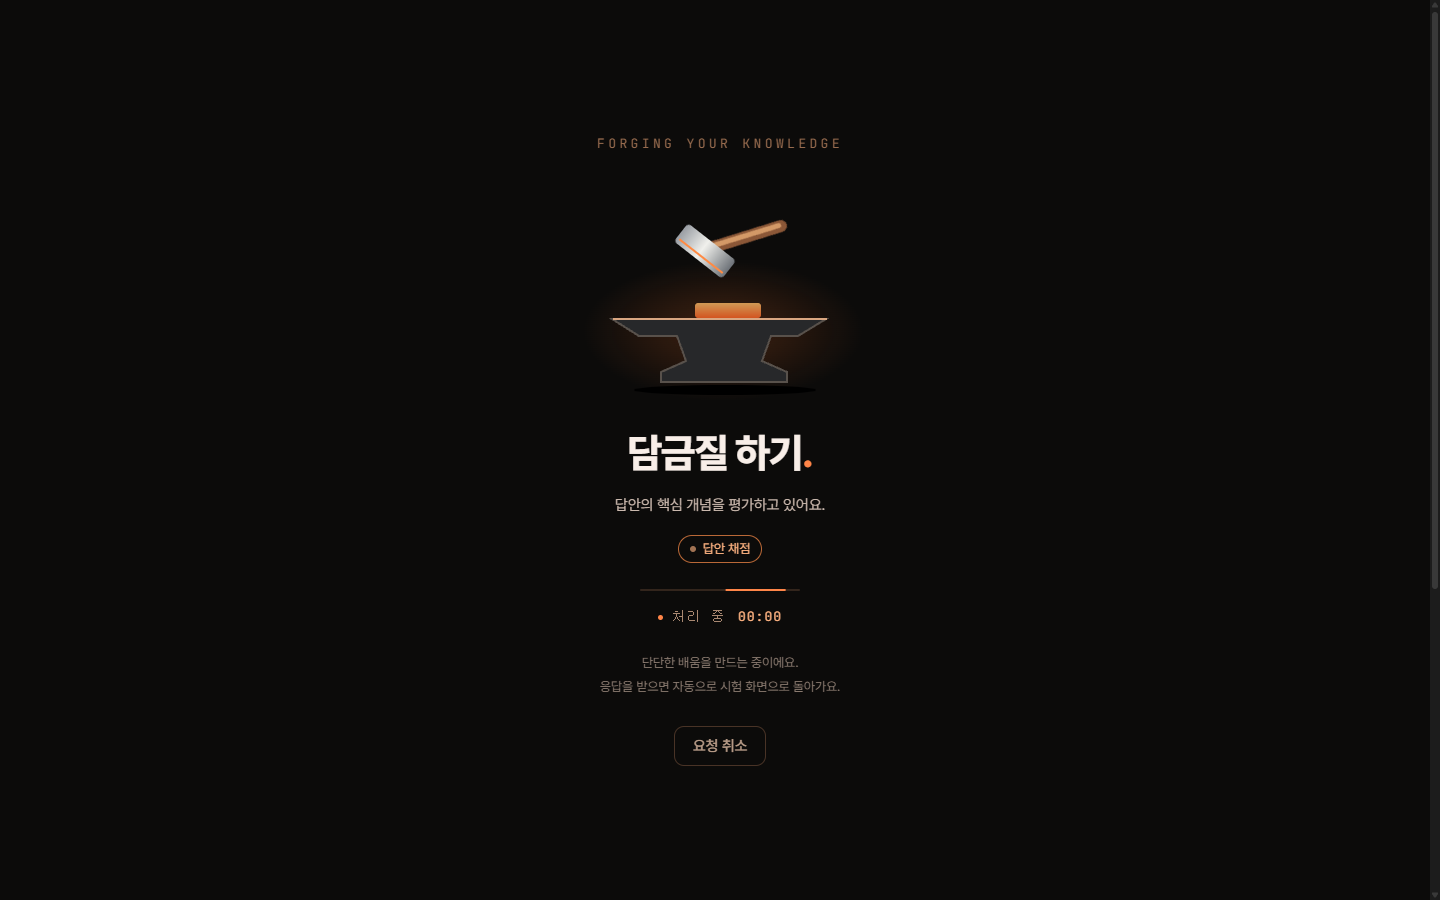
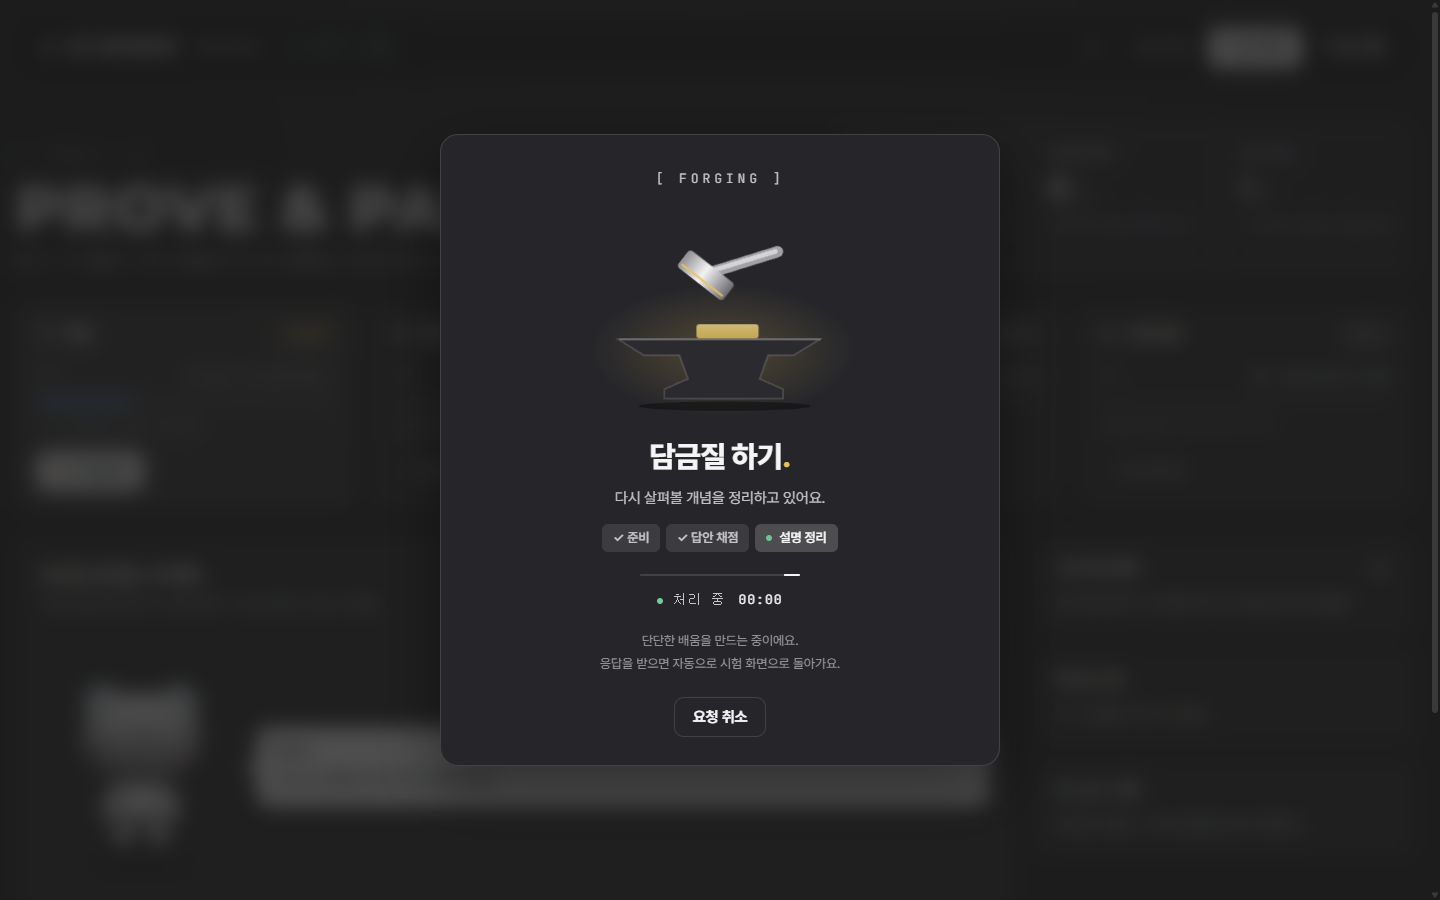
design(exam): restyle the forging loading screen as a dashboard-style card
담금질 로딩 화면을 검은 전체 화면 대신 학습 기록과 같은 체계의 카드로 바꿨습니다.

- `frontend/login_ui/exam.html`·`exam.css`: `dialog#forge`를 흐린 페이지(backdrop blur) 위 가운데 카드(`--folder` 바탕, 1px `--line`, 18px 라운드)로 바꾸고, 눈썹 `[ FORGING ]`·제목·단계 칩(`.chip` 모양)·모노 타이머·`.btn.secondary` 버튼으로 맞췄습니다. 망치·모루·달군 쇠 SVG와 strike/spark/ember/travel 애니메이션은 그대로 두고 색만 CSS 변수(회색 쇠, `--mid` 계열 호박색 달군 쇠, 테마별 값)로 칠합니다.
- 닫힌 dialog는 `.forge-screen:not([open]){display:none}`으로 숨기고(display:grid 때문에 필요), `[hidden]` 버튼·`prefers-reduced-motion`·`scripts/check-exam-ui.mjs`의 기대(.hammer 동작, '요청 취소' 버튼, #forge-phase 문구)는 유지했습니다. 헤드리스 크롬으로 다크·라이트 × 데스크톱·모바일(390px, 가로 넘침 없음, 카드 587px)과 닫힘(display none)·열림 상태를 확인했습니다.
- `docs/exam-page.md`·`WORKLOG.md`·스크린샷(`docs/screenshots/exam/loading-*.png`)을 새 화면에 맞췄습니다.

diff --git a/frontend/login_ui/exam.css b/frontend/login_ui/exam.css
@@ -1,5 +1,5 @@
 /* 평가 시험 페이지(/exam). 학습 기록(Trainee Dashboard.dc.html)과 같은 토큰·헤더·제목·카드 체계를 쓴다.
-   오렌지 강조는 쓰지 않고, 망치 로딩 화면(담금질 하기)의 달군 쇠·불꽃 오렌지만 남긴다. */
+   오렌지 강조는 쓰지 않는다. 망치 로딩 화면(담금질 하기)도 같은 체계의 카드이고, 달군 쇠·불꽃만 --mid 계열 호박색이다. */
 html, body { margin: 0; min-height: 100%; }
 body {
   --font-ko: "Pretendard", -apple-system, BlinkMacSystemFont, "Apple SD Gothic Neo", "Malgun Gothic", sans-serif;
@@ -205,35 +205,48 @@ h1 { font-family: var(--font-en); font-weight: 800; font-size: clamp(36px, 5.4vw
 .item strong { font-size: 15px; font-weight: 600; }
 .item .btn { align-self: flex-start; margin-top: 4px; }
 
-/* 망치 로딩 화면: 검은 배경 · 달군 쇠 · 불꽃 오렌지는 그대로. 글꼴·간격만 체계에 맞춘다 */
-.forge-screen { border: none; margin: 0; padding: 0; max-width: none; max-height: none; width: 100vw; height: 100dvh; color: #f8eee8; background: #0c0b0a; overflow: auto; font-family: var(--font-ko); letter-spacing: -0.01em; }
-.forge-screen::backdrop { background: #0c0b0a; }
-.forge-content { min-height: 100%; display: flex; flex-direction: column; align-items: center; justify-content: center; text-align: center; padding: 36px 20px; }
-.forge-eyebrow { font-family: var(--mono); font-size: 13px; letter-spacing: 0.26em; color: #976b4e; }
-.forge-art { width: min(360px, 85vw); height: 240px; margin: 16px 0 0; }
+/* 담금질 로딩 화면: 학습 기록 체계의 카드(둥근 18px · 선 1px · --folder 바탕)를 흐린 페이지 위 가운데에 띄운다.
+   망치·모루·달군 쇠 그림과 동작은 그대로 두고 색만 토큰으로 맞춘다(쇠는 회색, 달군 쇠·불꽃은 --mid 계열 호박색). */
+.forge-screen { --forge-heat: #e8c25a; --forge-heat-hi: #f7dd8c; --forge-anvil: #2b2b2f; --forge-steel-a: #8e8e93; --forge-steel-b: #f2f2f2; --forge-steel-c: #6b6b70; --forge-handle: #a1a1a6; --forge-handle-hi: #d4d4d8; --forge-glow: .22;
+  border: none; margin: 0; padding: 20px; max-width: none; max-height: none; width: 100vw; height: 100dvh; background: transparent; color: var(--text); overflow: auto; font-family: var(--font-ko); letter-spacing: -0.01em; display: grid; place-items: center; }
+.forge-screen:not([open]) { display: none; }
+.forge-screen::backdrop { background: rgba(28, 28, 28, .78); backdrop-filter: blur(10px); -webkit-backdrop-filter: blur(10px); }
+body[data-theme="light"] .forge-screen { --forge-heat: #e0a62f; --forge-heat-hi: #f3cf6d; --forge-anvil: #3a3a40; --forge-steel-a: #9a9aa0; --forge-steel-b: #ffffff; --forge-steel-c: #6b6b71; --forge-handle: #8c8c92; --forge-handle-hi: #c9c9ce; --forge-glow: .14; }
+body[data-theme="light"] .forge-screen::backdrop { background: rgba(244, 244, 245, .8); }
+.forge-content { width: min(560px, 100%); display: flex; flex-direction: column; align-items: center; text-align: center; padding: 34px 28px 28px; border-radius: 18px; background: var(--folder); border: 1px solid var(--line); box-shadow: 0 24px 60px var(--shadow); }
+.forge-eyebrow { font-family: var(--mono); font-size: 13px; letter-spacing: 0.3em; color: var(--muted); }
+.forge-art { width: min(340px, 100%); height: 226px; margin: 10px 0 0; }
+/* 그림 색: 그라데이션 stop과 면·선을 CSS 변수로 칠해 테마를 따라간다 */
+.forge-art .anvil { fill: var(--forge-anvil); stroke: var(--line); }
+.forge-art .anvil-edge { stroke: var(--forge-steel-c); }
+.forge-art .steel-a { stop-color: var(--forge-steel-a); } .forge-art .steel-b { stop-color: var(--forge-steel-b); } .forge-art .steel-c { stop-color: var(--forge-steel-c); }
+.forge-art .heat-a { stop-color: var(--forge-heat); } .forge-art .heat-b { stop-color: var(--forge-heat-hi); }
+.forge-art .glow-a { stop-color: var(--forge-heat); stop-opacity: var(--forge-glow); } .forge-art .glow-b { stop-color: var(--forge-heat); stop-opacity: 0; }
+.forge-art .handle { stroke: var(--forge-handle); } .forge-art .handle-hi { stroke: var(--forge-handle-hi); }
+.forge-art .head-edge { stroke: var(--forge-heat); }
+.forge-art .sparks { stroke: var(--forge-heat-hi); }
+.forge-art .ground { fill: var(--shadow); }
 .hammer { transform-origin: 241px 56px; animation: strike 1.4s cubic-bezier(.5, 0, .3, 1) infinite; }
 .sparks { opacity: 0; transform-origin: 190px 139px; animation: spark 1.4s infinite; }
 .billet { animation: ember 1.4s infinite; }
-.forge-content h2 { font-size: 40px; font-weight: 800; letter-spacing: -0.03em; margin: 12px 0 10px; }
-.forge-content .orange-dot { color: #ff8548; }
-.forge-content #forge-phase { font-size: 15px; color: #cbb9ae; max-width: 420px; }
-/* 지나온 단계 칸: 끝난 칸은 체크, 지금 칸은 깜빡이는 점. 서버 작업의 phase가 바뀔 때마다 한 칸씩 늘어난다 */
-.forge-steps { list-style: none; margin: 18px 0 0; padding: 0; display: flex; flex-wrap: wrap; justify-content: center; gap: 8px; max-width: 520px; }
+.forge-content h2 { font-size: 30px; font-weight: 800; letter-spacing: -0.02em; margin: 8px 0 8px; }
+.forge-content .orange-dot { color: var(--forge-heat); }
+.forge-content #forge-phase { font-size: 15px; color: var(--muted); max-width: 420px; }
+/* 지나온 단계 칸: 상태 칩 모양. 끝난 칸은 체크, 지금 칸은 깜빡이는 점. 서버 작업의 phase가 바뀔 때마다 한 칸씩 늘어난다 */
+.forge-steps { list-style: none; margin: 14px 0 0; padding: 0; display: flex; flex-wrap: wrap; justify-content: center; gap: 6px; max-width: 480px; }
 .forge-steps:empty { display: none; }
-.forge-steps li { display: inline-flex; align-items: center; gap: 7px; height: 28px; padding: 0 11px; border-radius: 999px; border: 1px solid #493326; color: #cbb9ae; font-size: 13px; white-space: nowrap; }
-.forge-steps li.now { color: #ffb381; border-color: #ba6837; }
-.forge-steps li i { width: 6px; height: 6px; border-radius: 50%; background: currentColor; }
+.forge-steps li { display: inline-flex; align-items: center; gap: 7px; height: 28px; padding: 0 11px; border-radius: 6px; background: var(--panel2); color: var(--muted); font-size: 13px; font-weight: 600; white-space: nowrap; }
+.forge-steps li.now { background: var(--chip-on); color: var(--text); }
+.forge-steps li i { width: 6px; height: 6px; border-radius: 50%; background: var(--ok); }
 .forge-steps li.now i { animation: pulse 1s ease-in-out infinite; }
 @keyframes pulse { 0%, 100% { opacity: .3; } 50% { opacity: 1; } }
-.forge-line { width: 160px; height: 2px; background: #33251c; margin: 26px 0 16px; overflow: hidden; border-radius: 3px; }
-.forge-line span { display: block; width: 60px; height: 2px; background: #ff8548; animation: travel 1.8s ease-in-out infinite; }
-.forge-time { font-family: var(--mono); font-size: 13px; letter-spacing: 0.08em; color: #a98871; display: flex; align-items: center; gap: 9px; }
-.forge-time time { color: #ffb381; margin-left: 3px; }
-.live-dot { height: 5px; width: 5px; background: #ff8548; border-radius: 50%; }
-.forge-help { margin-top: 24px; font-size: 13px; color: #8a7a6f; line-height: 1.8; }
-.forge-actions { display: flex; gap: 10px; margin-top: 28px; }
-.forge-cancel { height: 40px; padding: 0 18px; border-radius: 10px; border: 1px solid #493326; background: transparent; color: #b59985; font-size: 15px; font-weight: 600; }
-.forge-cancel:hover { color: #ffb381; border-color: #ba6837; }
+.forge-line { width: 160px; height: 2px; background: var(--line); margin: 22px 0 14px; overflow: hidden; border-radius: 3px; }
+.forge-line span { display: block; width: 60px; height: 2px; background: var(--text); animation: travel 1.8s ease-in-out infinite; }
+.forge-time { font-family: var(--mono); font-size: 13px; letter-spacing: 0.08em; color: var(--muted); display: flex; align-items: center; gap: 9px; }
+.forge-time time { color: var(--text); margin-left: 3px; }
+.live-dot { height: 6px; width: 6px; background: var(--ok); border-radius: 50%; }
+.forge-help { margin-top: 18px; font-size: 13px; color: var(--dim); line-height: 1.8; }
+.forge-actions { display: flex; gap: 10px; margin-top: 22px; }
 @keyframes strike { 0%, 19% { transform: rotate(38deg); } 40%, 44% { transform: rotate(-3deg); } 60%, 100% { transform: rotate(38deg); } }
 @keyframes spark { 0%, 35%, 59%, 100% { opacity: 0; transform: scale(.3); } 40% { opacity: 1; transform: scale(.7); } 56% { opacity: 0; transform: scale(1.2); } }
 @keyframes ember { 0%, 32%, 70%, 100% { opacity: .78; } 40%, 48% { opacity: 1; } }
@@ -275,7 +288,10 @@ h1 { font-family: var(--font-en); font-weight: 800; font-size: clamp(36px, 5.4vw
   .steps li { padding: 12px; }
   .concept-result { grid-template-columns: minmax(64px, 110px) minmax(0, 1fr) auto; gap: 10px; }
   .form-bottom { flex-wrap: wrap; }
-  .forge-content h2 { font-size: 34px; }
+  .forge-screen { padding: 16px; }
+  .forge-content { padding: 26px 18px 22px; }
+  .forge-art { height: 200px; }
+  .forge-content h2 { font-size: 26px; }
 }
 @media (prefers-reduced-motion: reduce) {
   *, *::before, *::after { scroll-behavior: auto !important; animation: none !important; transition: none !important; }

diff --git a/frontend/login_ui/exam.html b/frontend/login_ui/exam.html
@@ -81,19 +81,19 @@
       </aside>
     </div>
   </main>
-  <!-- 망치 로딩 화면(담금질 하기): 검은 배경과 달군 쇠·불꽃 오렌지는 그대로 두고 글꼴·간격만 체계에 맞춘다 -->
+  <!-- 담금질 로딩 화면: 흐린 페이지 위에 학습 기록 체계의 카드. 망치·모루·달군 쇠 그림과 동작은 그대로, 색은 exam.css의 변수(테마별)로 칠한다 -->
   <dialog id="forge" class="forge-screen" aria-labelledby="forge-title" aria-describedby="forge-phase">
     <div class="forge-content">
-      <span class="forge-eyebrow">FORGING YOUR KNOWLEDGE</span>
+      <span class="forge-eyebrow">[ FORGING ]</span>
       <svg class="forge-art" viewBox="0 0 360 240" aria-hidden="true">
-        <defs><linearGradient id="steel" x1="0" x2="1"><stop stop-color="#999da3"/><stop offset=".45" stop-color="#f0f0ec"/><stop offset="1" stop-color="#6d7278"/></linearGradient><linearGradient id="heat" x1="0" y1="1" x2="0" y2="0"><stop stop-color="#ff6425"/><stop offset="1" stop-color="#ffbe6a"/></linearGradient><radialGradient id="glow"><stop stop-color="#ff7429" stop-opacity=".22"/><stop offset="1" stop-color="#ff7429" stop-opacity="0"/></radialGradient></defs>
+        <defs><linearGradient id="steel" x1="0" x2="1"><stop class="steel-a"/><stop class="steel-b" offset=".45"/><stop class="steel-c" offset="1"/></linearGradient><linearGradient id="heat" x1="0" y1="1" x2="0" y2="0"><stop class="heat-a"/><stop class="heat-b" offset="1"/></linearGradient><radialGradient id="glow"><stop class="glow-a"/><stop class="glow-b" offset="1"/></radialGradient></defs>
         <ellipse cx="183" cy="161" rx="140" ry="70" fill="url(#glow)"/>
-        <path class="anvil" d="M72 149h214l-28 17h-27l-9 25 25 11v10H121v-10l25-11-9-25H99z" fill="#27282a" stroke="#58514b" stroke-width="2"/>
-        <path d="M73 149h214" stroke="#d9a681" stroke-width="2"/>
+        <path class="anvil" d="M72 149h214l-28 17h-27l-9 25 25 11v10H121v-10l25-11-9-25H99z" stroke-width="2"/>
+        <path class="anvil-edge" d="M73 149h214" stroke-width="2"/>
         <rect class="billet" x="155" y="133" width="66" height="15" rx="3" fill="url(#heat)"/>
-        <g class="hammer"><path d="M241 56l-43 62" stroke="#8b5737" stroke-width="12" stroke-linecap="round"/><path d="M239 57l-42 60" stroke="#d39967" stroke-width="5" stroke-linecap="round"/><rect x="166" y="111" width="61" height="23" rx="4" fill="url(#steel)"/><path d="M169 129h55" stroke="#ff8a43" stroke-width="2"/></g>
-        <g class="sparks" stroke="#ff9a46" stroke-width="2.4" stroke-linecap="round"><path d="M181 132l-31-35"/><path d="M184 130l-4-41"/><path d="M200 132l30-30"/><path d="M211 139l41-9"/><path d="M171 140l-42-9"/><path d="M208 142l32 15"/></g>
-        <ellipse cx="185" cy="220" rx="91" ry="5" fill="#000"/>
+        <g class="hammer"><path class="handle" d="M241 56l-43 62" stroke-width="12" stroke-linecap="round"/><path class="handle-hi" d="M239 57l-42 60" stroke-width="5" stroke-linecap="round"/><rect x="166" y="111" width="61" height="23" rx="4" fill="url(#steel)"/><path class="head-edge" d="M169 129h55" stroke-width="2"/></g>
+        <g class="sparks" stroke-width="2.4" stroke-linecap="round"><path d="M181 132l-31-35"/><path d="M184 130l-4-41"/><path d="M200 132l30-30"/><path d="M211 139l41-9"/><path d="M171 140l-42-9"/><path d="M208 142l32 15"/></g>
+        <ellipse class="ground" cx="185" cy="220" rx="91" ry="5"/>
       </svg>
       <h2 id="forge-title">담금질 하기<span class="orange-dot">.</span></h2>
       <p id="forge-phase" role="status" aria-live="polite">요청을 준비하고 있어요.</p>
@@ -102,7 +102,7 @@
       <div class="forge-line" aria-hidden="true"><span></span></div>
       <p class="forge-time"><span class="live-dot" aria-hidden="true"></span>처리 중 <time id="elapsed">00:00</time></p>
       <p class="forge-help">단단한 배움을 만드는 중이에요.<br>응답을 받으면 자동으로 시험 화면으로 돌아가요.</p>
-      <div class="forge-actions"><button id="cancel-job" class="forge-cancel">요청 취소</button><button id="reconnect" class="forge-cancel" hidden>연결 다시 확인</button></div>
+      <div class="forge-actions"><button id="cancel-job" class="btn secondary">요청 취소</button><button id="reconnect" class="btn secondary" hidden>연결 다시 확인</button></div>
     </div>
   </dialog>
 </body>

diff --git a/docs/exam-page.md b/docs/exam-page.md
@@ -6,9 +6,9 @@
 
 홈 로그인 → 3D 학습/학습 기록의 **평가 시험** 링크 → 공정 선택 → 응시 준비 → 문제 → 답안 제출 → 필요하면 설명과 추가 확인 → 결과.
 
-- 디자인은 학습 기록(`frontend/login_ui/Trainee Dashboard.dc.html`)과 같은 체계다: 같은 색 토큰(다크/라이트)·글꼴, 둥근 헤더(로고 · ST-ROOKIE · TRAINEE · '● 평가 시험' 알약 · 테마 · 로그아웃 · [학습 화면] · [학습 기록]), `[ TRAINEE ]` 눈썹 + 영어 제목 **PROVE & PASS.**, 통계 카드 묶음(통과 기준 80% · 통과한 공정 · 응시 가능), 학습 기록과 같은 공정 카드(번호 · 이름 · 상태 칩 · 이해도 · 막대), `.card` 패널. 오렌지 강조는 망치 로딩 화면에만 남겼다. 화면 제목과 응시 문구는 **평가 시험**으로 통일했다. 기존 API의 `understanding` 값은 호환성을 위해 유지했다.
+- 디자인은 학습 기록(`frontend/login_ui/Trainee Dashboard.dc.html`)과 같은 체계다: 같은 색 토큰(다크/라이트)·글꼴, 둥근 헤더(로고 · ST-ROOKIE · TRAINEE · '● 평가 시험' 알약 · 테마 · 로그아웃 · [학습 화면] · [학습 기록]), `[ TRAINEE ]` 눈썹 + 영어 제목 **PROVE & PASS.**, 통계 카드 묶음(통과 기준 80% · 통과한 공정 · 응시 가능), 학습 기록과 같은 공정 카드(번호 · 이름 · 상태 칩 · 이해도 · 막대), `.card` 패널. 오렌지 강조는 쓰지 않는다. 화면 제목과 응시 문구는 **평가 시험**으로 통일했다. 기존 API의 `understanding` 값은 호환성을 위해 유지했다.
 - 시험 패널에는 **포석호**(`frontend/3d-demo/cp-character.js`, 한 개만 만들어 `motion` 속성만 바꾼다)와 흰 말풍선이 있다. 말풍선에는 이번 차례의 반응(정답·거의·아쉬움·핵심 정리)과 질문이 들어가고, 질문 줄은 한 글자씩 적는다(최대 2.4초, 동작 축소 설정이면 바로). 설명(`explanation`)은 '포석호의 설명' 블록으로 아래에 둔다. 동작은 `checkpoint-chat.js`의 `motionFor`(마지막 발화 type)이고, 반응 발화가 있으면 그 동작을 2.2초 먼저 보여 준다. 처리 중에는 `thinking`, 결과는 `result`(통과 여부). 효과음은 `tutor-sfx.js`로 새 발화일 때 한 번만 내고(복원한 발화는 내지 않음) 패널 머리의 토글로 끈다.
-- 요청 처리 중 검은 배경에 망치·달군 철·불꽃 애니메이션과 **담금질 하기.**를 표시한다. 작업의 실제 단계 문구와 경과 시간, 그리고 **지나온 단계 칸**(준비 → 답안 채점 → 설명 정리 → 추가 확인 문제처럼 작업 상태의 `phase`가 바뀔 때마다 한 칸씩 늘어남)을 보여 주고 취소할 수 있다. 임의의 완료율은 표시하지 않는다. 한 단계가 LLM 호출 1~3회라 Gemini `gemini-3.5-flash-lite`가 느린 날(2026-10-14, 호출당 15~33초)에는 단계당 30~60초가 걸린다.
+- 요청 처리 중에는 흐린 페이지 위에 같은 체계의 카드로 망치·달군 쇠·불꽃 애니메이션과 **담금질 하기.**를 띄운다(`dialog#forge`, 다크·라이트 모두 토큰 색, 달군 쇠·불꽃만 `--mid` 계열 호박색). 작업의 실제 단계 문구와 경과 시간, 그리고 **지나온 단계 칸**(준비 → 답안 채점 → 설명 정리 → 추가 확인 문제처럼 작업 상태의 `phase`가 바뀔 때마다 한 칸씩 늘어남)을 보여 주고 취소할 수 있다. 임의의 완료율은 표시하지 않는다. 한 단계가 LLM 호출 1~3회라 Gemini `gemini-3.5-flash-lite`가 느린 날(2026-10-14, 호출당 15~33초)에는 단계당 30~60초가 걸린다.
 - 답안 초안·진행 중 작업 ID·요청 키를 사용자별 sessionStorage에 저장한다. 새로고침이나 연결 재시도에서 같은 요청 키를 사용해 중복 채점을 막는다.
 - 시험을 잠시 멈추고 학습 화면으로 돌아갈 수 있다. 취소한 요청은 시험을 다음 문제로 진행시키지 않는다.
 - 오른쪽에 복습 일정·배정된 시험·최근 평가 기록을 표시한다. 모바일과 동작 축소 설정을 지원한다.

diff --git a/WORKLOG.md b/WORKLOG.md
@@ -2,7 +2,7 @@
 
 ## 2026-10-14 평가 시험 화면을 학습 기록 체계로 통일하고 포석호를 붙임
 
-- `/exam`을 학습 기록(`Trainee Dashboard.dc.html`)과 같은 토큰·헤더·제목·카드 체계로 다시 입혔다(PROVE & PASS., 통계 카드 묶음, 공정 카드, `.card` 패널). 오렌지는 망치 로딩 화면에만 남겼다. 로직(작업 조회·취소·재연결·답안 초안·Idempotency-Key·일시 정지·로그아웃)은 그대로다.
+- `/exam`을 학습 기록(`Trainee Dashboard.dc.html`)과 같은 토큰·헤더·제목·카드 체계로 다시 입혔다(PROVE & PASS., 통계 카드 묶음, 공정 카드, `.card` 패널). 망치 로딩 화면(담금질 하기)도 검은 전체 화면 대신 흐린 페이지 위 같은 체계의 카드로 바꾸고, 쇠는 회색·달군 쇠만 호박색(`--mid` 계열)으로 칠했다. 로직(작업 조회·취소·재연결·답안 초안·Idempotency-Key·일시 정지·로그아웃)은 그대로다.
 - 시험 패널에 포석호(`cp-character`, 한 개만 만들어 `motion`만 바꿈)와 흰 말풍선을 넣었다. 반응(정답·거의·아쉬움·핵심 정리)과 질문은 말풍선에, 설명은 '포석호의 설명' 블록에. 동작은 `checkpoint-chat.js`의 `motionFor`, 효과음은 `tutor-sfx.js`(새 발화에 한 번, 토글). 이전 페이지가 버리던 `almost`·`miss` 발화도 보여 준다.
 - AI 튜터 패널 머리(학습 기록·v4)에도 포석호를 붙였다(`learning-chat.js`의 `tutorMotionFor`: 기다리면 thinking, 스트리밍이면 explain, 보충학습 반응·결과는 `motionFor`). 테스트 345개 통과.
 - "시험 창이 정적이고 연결이 안 된 것 같다"는 보고의 원인은 모델 속도였다. `gemini-3.5-flash-lite`가 호출당 15~33초(503 high demand)였고 같은 키의 `gemini-3.5-flash`는 2초였다(시각에 따라 lite도 2~3초로 돌아온다). 그래서 망치 화면에 지나온 단계 칸(준비 → 답안 채점 → 설명 정리 …)을 더하고 말풍선의 질문 줄을 한 글자씩 적게 해 기다리는 동안에도 화면이 움직이게 했다. 모델 전환은 비용이 늘어 팀 결정으로 남겼다.
